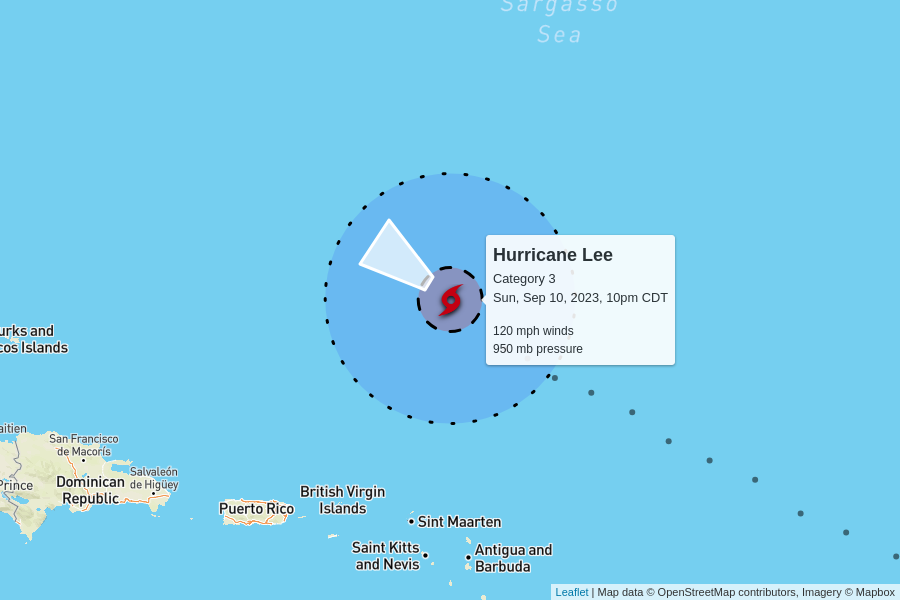
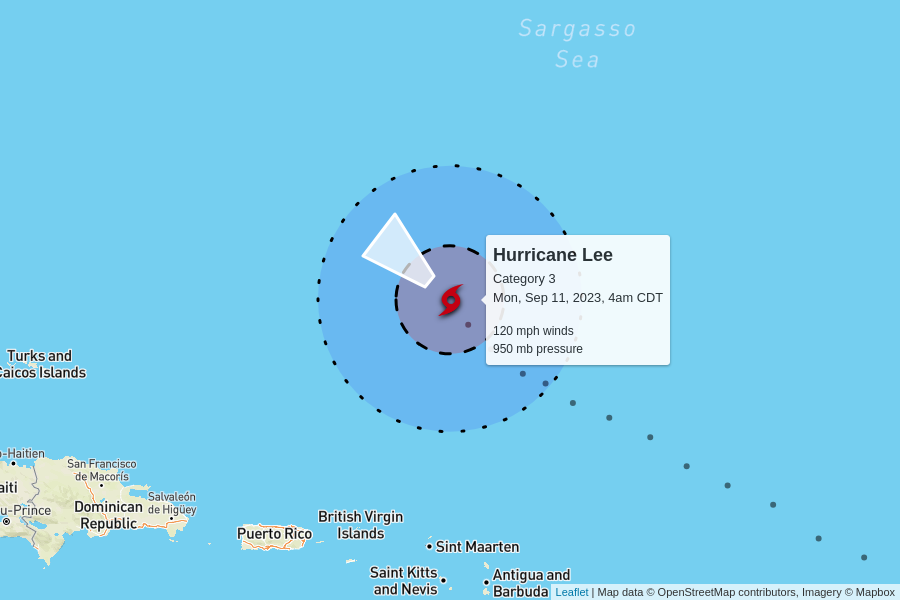
automatic update

diff --git a/docs/index.html b/docs/index.html
@@ -104,7 +104,7 @@
         <td colspan="6" class="storm category-3" >
           <h2>
             Hurricane Lee - Category 3
-            <p class="updated">last updated <span data-time>2023-09-11T03:00:00.000Z</span></p>
+            <p class="updated">last updated <span data-time>2023-09-11T09:00:00.000Z</span></p>
           </h2>
         </td>
       </tr>
@@ -120,11 +120,11 @@
       <tr>
         <td class="spacer"></td>
         <td>120 mph<br>0 mph since last update</td>
-        <td>950 mb<br>-4 mb since last update</td>
+        <td>950 mb<br>0 mb since last update</td>
         <td>
-          8 mph to the northwest
+          7 mph to the northwest
           <br/>
-          <span style="display: inline-block; font-size: 1.5em; transform: rotate(305deg);">↑</span>
+          <span style="display: inline-block; font-size: 1.5em; transform: rotate(310deg);">↑</span>
         </td>
         <td><a href="https://raw.githubusercontent.com/mgwalker/atlantic-hurricanes/main/data/csv/AL132023.csv">AL132023.csv</a></td>
         <td><a href="https://www.nhc.noaa.gov/archive/2023/LEE.shtml?">NHC advisories</a></td>
@@ -148,7 +148,7 @@
         <td colspan="6" class="storm category-0" >
           <h2>
             Tropical Storm Margot
-            <p class="updated">last updated <span data-time>2023-09-11T03:00:00.000Z</span></p>
+            <p class="updated">last updated <span data-time>2023-09-11T09:00:00.000Z</span></p>
           </h2>
         </td>
       </tr>
